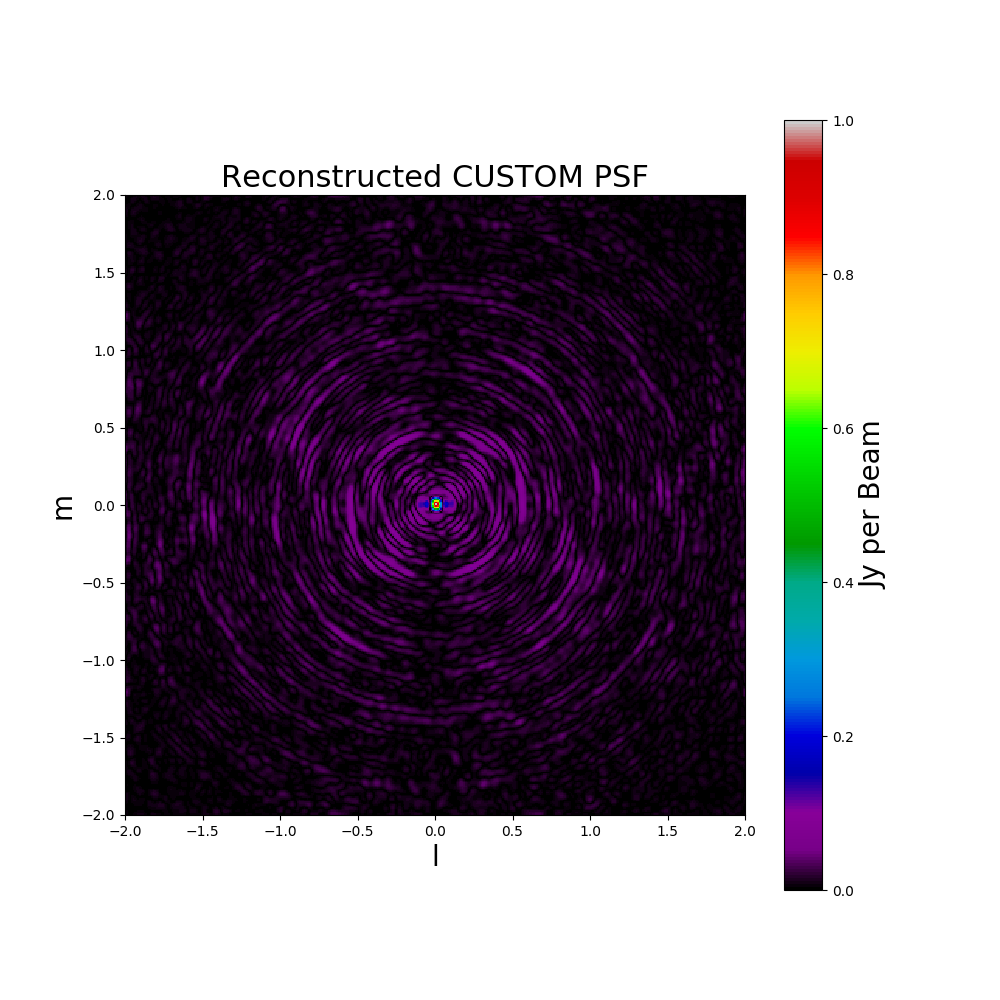
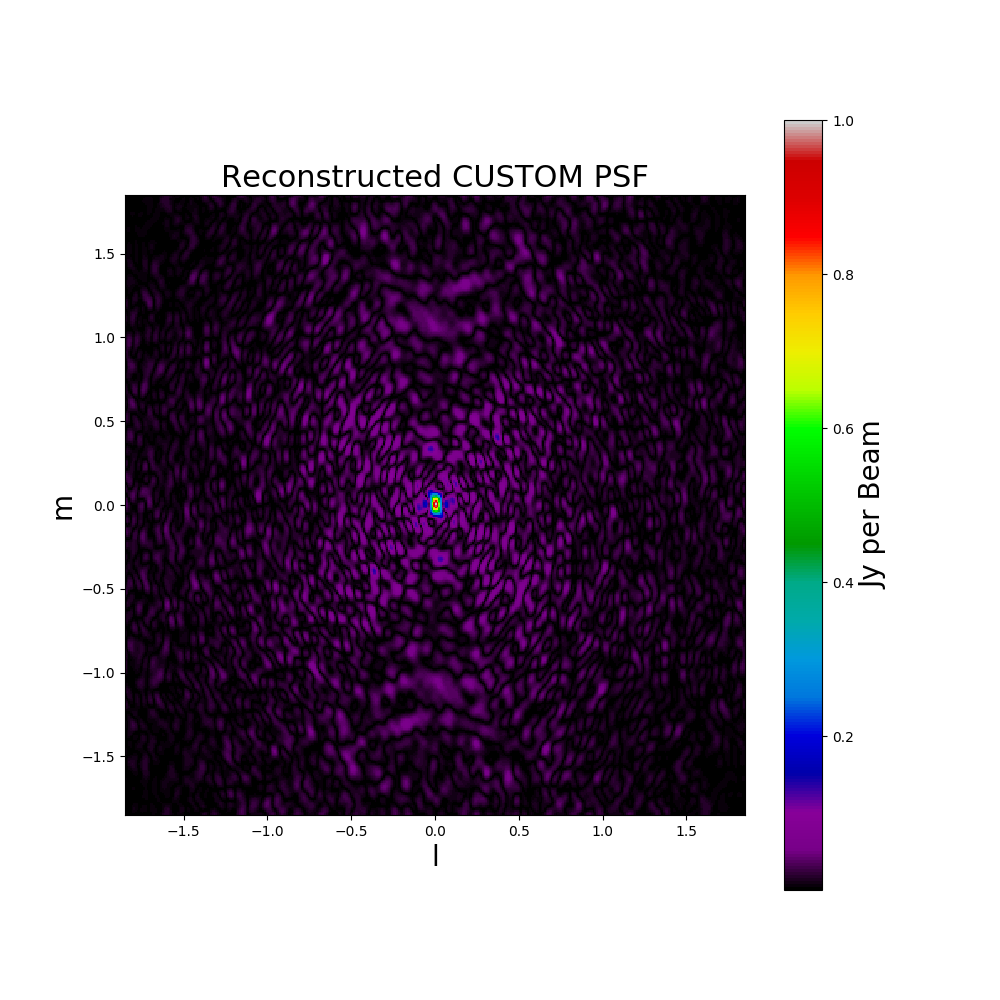
corrected center for all testing images

diff --git a/Sky_Models/one-point.lsm.html b/Sky_Models/one-point.lsm.html
@@ -15,7 +15,7 @@
  </tbody></table>
 
 <h1>Other properties</h1>
-<p><a mdltype="float" mdlattr="ra0" mdlval="5.0229435717091961"></a><a>Field centre ra: 5.02294357171</a>  <a mdltype="float" mdlattr="dec0" mdlval="-1.3053931924309257"></a><a>dec: -1.30539319243</a>  </p>
+<p><a mdltype="float" mdlattr="ra0" mdlval="4.9793225450667888"></a><a>Field centre ra: 4.9793225450667888</a>  <a mdltype="float" mdlattr="dec0" mdlval="-1.3155380451812768"></a><a>dec: -1.3155380451812768</a>  </p>
 <p><a mdltype="str" mdlattr="ASCII_Format" mdlval="'name ra_h ra_m ra_s dec_d dec_m dec_s i'"></a><a>ASCII_Format:name ra_h ra_m ra_s dec_d dec_m dec_s i</a>  </p>
 
 </body></html>

diff --git a/Sky_Models/line.lsm.html b/Sky_Models/line.lsm.html
@@ -21,7 +21,7 @@
  </tbody></table>
 
 <h1>Other properties</h1>
-<p><a mdltype="float" mdlattr="ra0" mdlval="5.0229435717091961"></a><a>Field centre ra: 5.02294357171</a>  <a mdltype="float" mdlattr="dec0" mdlval="-1.3053931924309257"></a><a>dec: -1.30539319243</a>  </p>
+<p><a mdltype="float" mdlattr="ra0" mdlval="5.0054"></a><a>Field centre ra: 5.0054</a>  <a mdltype="float" mdlattr="dec0" mdlval="-1.3155380451812768"></a><a>dec: -1.3155380451812768</a>  </p>
 <p><a mdltype="str" mdlattr="ASCII_Format" mdlval="'name ra_h ra_m ra_s dec_d dec_m dec_s i'"></a><a>ASCII_Format:name ra_h ra_m ra_s dec_d dec_m dec_s i</a>  </p>
 
 </body></html>

diff --git a/Sky_Models/two-point.lsm.html b/Sky_Models/two-point.lsm.html
@@ -16,7 +16,7 @@
  </tbody></table>
 
 <h1>Other properties</h1>
-<p><a mdltype="float" mdlattr="ra0" mdlval="5.0229435717091961"></a><a>Field centre ra: 5.02294357171</a>  <a mdltype="float" mdlattr="dec0" mdlval="-1.3053931924309257"></a><a>dec: -1.30539319243</a>  </p>
+<p><a mdltype="float" mdlattr="ra0" mdlval="5.47932253"></a><a>Field centre ra: 5.47932253</a>  <a mdltype="float" mdlattr="dec0" mdlval="-1.815538043"></a><a>dec: -1.815538043</a>  </p>
 <p><a mdltype="str" mdlattr="ASCII_Format" mdlval="'name ra_h ra_m ra_s dec_d dec_m dec_s i'"></a><a>ASCII_Format:name ra_h ra_m ra_s dec_d dec_m dec_s i</a>  </p>
 
 </body></html>

diff --git a/Sky_Models/4-point.lsm.html b/Sky_Models/4-point.lsm.html
@@ -21,7 +21,7 @@
  </tbody></table>
 
 <h1>Other properties</h1>
-<p><a mdltype="float" mdlattr="ra0" mdlval="5.0229435717091961"></a><a>Field centre ra: 5.02294357171</a>  <a mdltype="float" mdlattr="dec0" mdlval="-1.3053931924309257"></a><a>dec: -1.30539319243</a>  </p>
+<p><a mdltype="float" mdlattr="ra0" mdlval="5.025539028"></a><a>Field centre ra: 5.025539028</a>  <a mdltype="float" mdlattr="dec0" mdlval="0.55"></a><a>dec: 0</a>  </p>
 <p><a mdltype="str" mdlattr="ASCII_Format" mdlval="'name ra_h ra_m ra_s dec_d dec_m dec_s i'"></a><a>ASCII_Format:name ra_h ra_m ra_s dec_d dec_m dec_s i</a>  </p>
 
 </body></html>

diff --git a/html/index.html b/html/index.html
@@ -225,7 +225,7 @@
 
        <div id="collapse2" class="panel-collapse collapse">
          <label class="btn btn-default btn-primary" id="input_label">
-           AntennaLayout <input type="file" name="input_file" id="input_file" class="but">
+           Antenna Layout <input type="file" name="input_file" id="input_file" class="but">
          </label>
 
          <label class="btn btn-default btn-primary" id="lsm_label">

diff --git a/Utilities.py b/Utilities.py
@@ -553,7 +553,7 @@ def get_all_uv_and_uv_tracks(L, f, h, dec, point_sources, layout):
 
     return all_uv_tracks, all_uv
 
-def image(uv, uv_tracks, cell_size, dec_0, res, name, showGrid, ra_0=0):
+def image(uv, uv_tracks, cell_size, dec_0, res, name, showGrid):
     """
     Calculates the Resolusion from the cell size and the provided resolution,
     it then plots the baseline grid and applies the visibilities to a grid.
@@ -577,9 +577,6 @@ def image(uv, uv_tracks, cell_size, dec_0, res, name, showGrid, ra_0=0):
 
     :param name: The name for the output image
     :type name: str
-
-    :param ra_0: The center right ascention
-    :type ra_0: float
 
     :param showGrid: Whether or not to show the grid on the image
     :type showGrid: boolean
@@ -626,8 +623,8 @@ def image(uv, uv_tracks, cell_size, dec_0, res, name, showGrid, ra_0=0):
     image /= scale_factor
     psf_image /= scale_factor
 
-    draw_image(image, Nl, Nm, cell_size_l, cell_size_m, L, M, name + " SkyModel", "l", "m", cell_size_error, dec_0, ra_0, showGrid)
-    draw_image(psf_image, Nl, Nm, cell_size_l, cell_size_m, L, M, name + " PSF", "l", "m", cell_size_error, dec_0, ra_0, False)
+    draw_image(image, Nl, Nm, cell_size_l, cell_size_m, L, M, name + " SkyModel", "l", "m", cell_size_error, showGrid)
+    draw_image(psf_image, Nl, Nm, cell_size_l, cell_size_m, L, M, name + " PSF", "l", "m", cell_size_error, False)
 
 def grid(Nl, Nm, uv_tracks, uv, cell_size_l, cell_size_m):
     """
@@ -697,7 +694,7 @@ def fourier_transform_grid(grid):
     return np.real(image)
 
 def draw_image(image, Nl, Nm, cell_size_l, cell_size_m, L, M, name,
-                x_title, y_title, cell_size_error, dec_0, ra_0, showGrid):
+                x_title, y_title, cell_size_error, showGrid):
     """
     Draws the image onto a figure, adds a color map to the side and draws circles
     for the declination.
@@ -735,11 +732,6 @@ def draw_image(image, Nl, Nm, cell_size_l, cell_size_m, L, M, name,
     :param cell_size_error: whether or not the cell size produced an error boolean
     :type cell_size_error: boolean
 
-    :param dec_0: The center declination
-    :type dec_0: float
-
-    :param ra_0: The center right ascention
-    :type ra_0: float
 
     :param showGrid: Whether or not to show the grid on the image
     :type showGrid: boolean
@@ -763,6 +755,7 @@ def draw_image(image, Nl, Nm, cell_size_l, cell_size_m, L, M, name,
         for i in range(10,91,10):
             dec = i * np.pi/180
             d_ra = 0
+            dec_0 = 0
 
             l = math.cos(dec) * math.sin(d_ra) * 180/np.pi
             m = (math.sin(dec) * math.cos(dec_0) - math.cos(dec) * math.sin(dec_0) * math.cos(d_ra)) * 180/np.pi

diff --git a/Pipeline.py b/Pipeline.py
@@ -131,7 +131,7 @@ class pipeline(object):
                 showGrid = True
             else:
                 showGrid = False
-            ut.image(uv, uv_tracks, cell_size, dec_0, res, "CUSTOM", showGrid, ra_0)
+            ut.image(uv, uv_tracks, cell_size, dec_0, res, "CUSTOM", showGrid)
 
     @cherrypy.expose
     def generate_graphs(self, cell_size=None, loc=None, showGrid=False):
